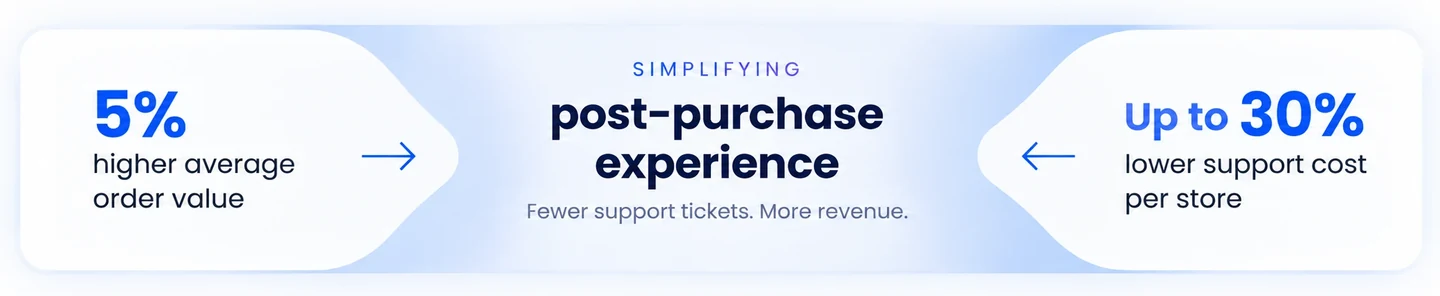
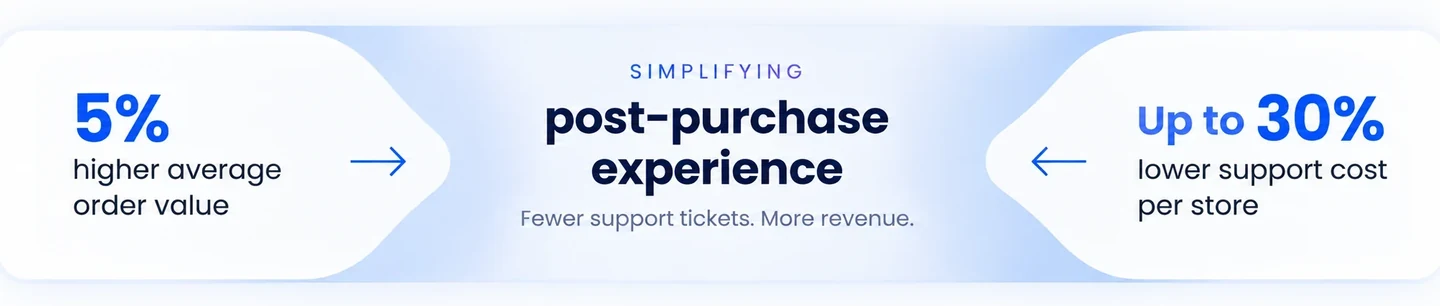
The band stops being a plate and becomes the page's own strip
The rounded corners were what still read as a block. Measured: the card's
ink spans the full height from x=32 in, so 32 is the corner radius, and
cropping there removes all four curves. The band now has straight top,
bottom and ends, flush to the hairlines above and below and running the
full width.

2016x428, 4.71:1, so 1440 paints 306. The type still clears each end by
74px - the crop eats 32 of the 104 the card had left after the last one.

Both sweeps clean.

diff --git a/index.html b/index.html
@@ -643,10 +643,10 @@
      the wedge by absolute position. The hairlines run to the page edge
      and stop at the wedge, which is what gives the two panels their
      width without a border. */
-  /* Height comes from the art, not a number. Cropped to the card's own
-     edges - x 40..2119 of the 2162 working file, where the first ink is
-     not until 176 - it is 4.86:1, so 1440 paints 296 and the type keeps
-     94px of air at each end. */
+  /* Height comes from the art, not a number. Cropped inside the card's
+     32px corner radius, so all four edges are straight and the band is
+     the page's own strip rather than a plate laid on it. 4.71:1, so
+     1440 paints 306, and the type still clears each end by 74px. */
   .cp-ob { position: relative; width: 1440px; background: #ffffff;
            overflow: hidden; }
   .cp-ob__art { display: block; width: 1440px; max-width: 100%;
@@ -1839,7 +1839,7 @@
 
   <!-- ── Outcome band ───────────────────── -->
   <section class="cp-ob" data-screen-label="Outcome band">
-    <img class="cp-ob__art" src="assets/outcome-band.webp" srcset="assets/outcome-band.webp 1440w, assets/outcome-band@2x.webp 2080w" sizes="1440px" alt="Simplifying post-purchase experience. Fewer support tickets. More revenue. 5% higher average order value, and up to 30% lower support cost per store." width="1440" height="296" loading="lazy">
+    <img class="cp-ob__art" src="assets/outcome-band.webp" srcset="assets/outcome-band.webp 1440w, assets/outcome-band@2x.webp 2016w" sizes="1440px" alt="Simplifying post-purchase experience. Fewer support tickets. More revenue. 5% higher average order value, and up to 30% lower support cost per store." width="1440" height="306" loading="lazy">
     <svg class="cp-ob__shape" width="1440" height="330" viewBox="0 0 1440 330" fill="none" aria-hidden="true" focusable="false">
       <defs>
         <linearGradient id="cp-ob-g" x1="0" y1="0" x2="1440" y2="0" gradientUnits="userSpaceOnUse">
